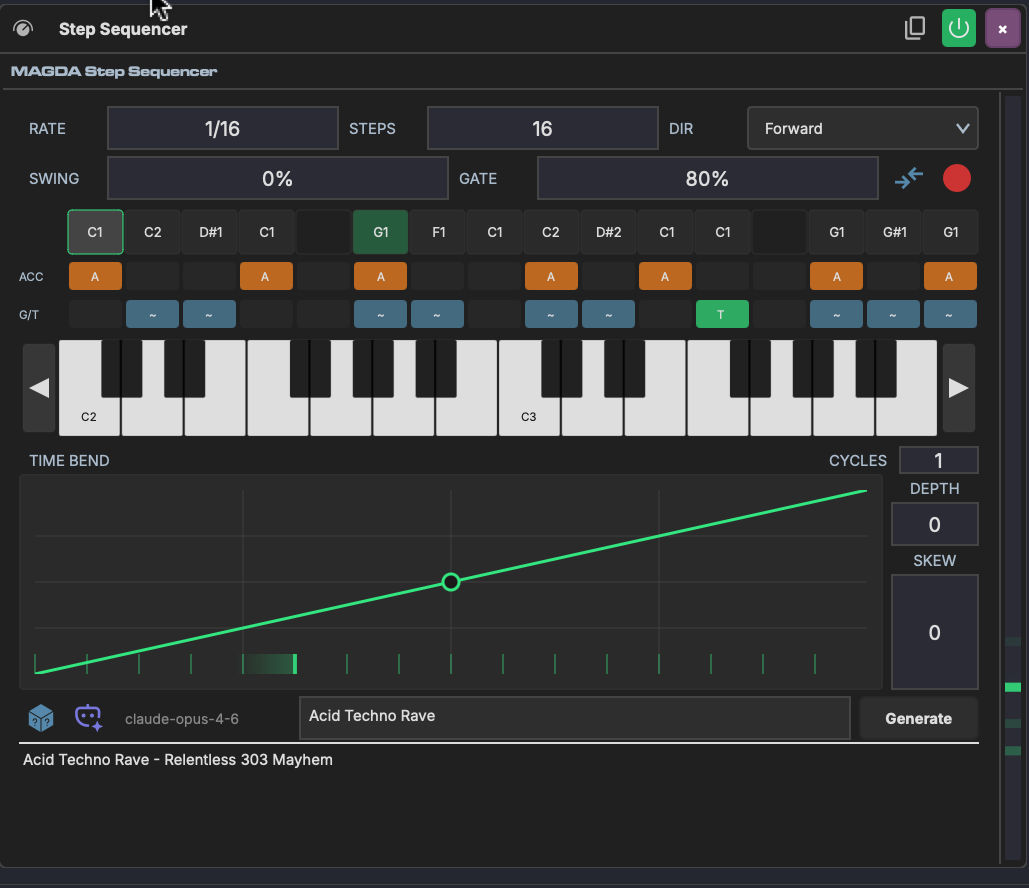
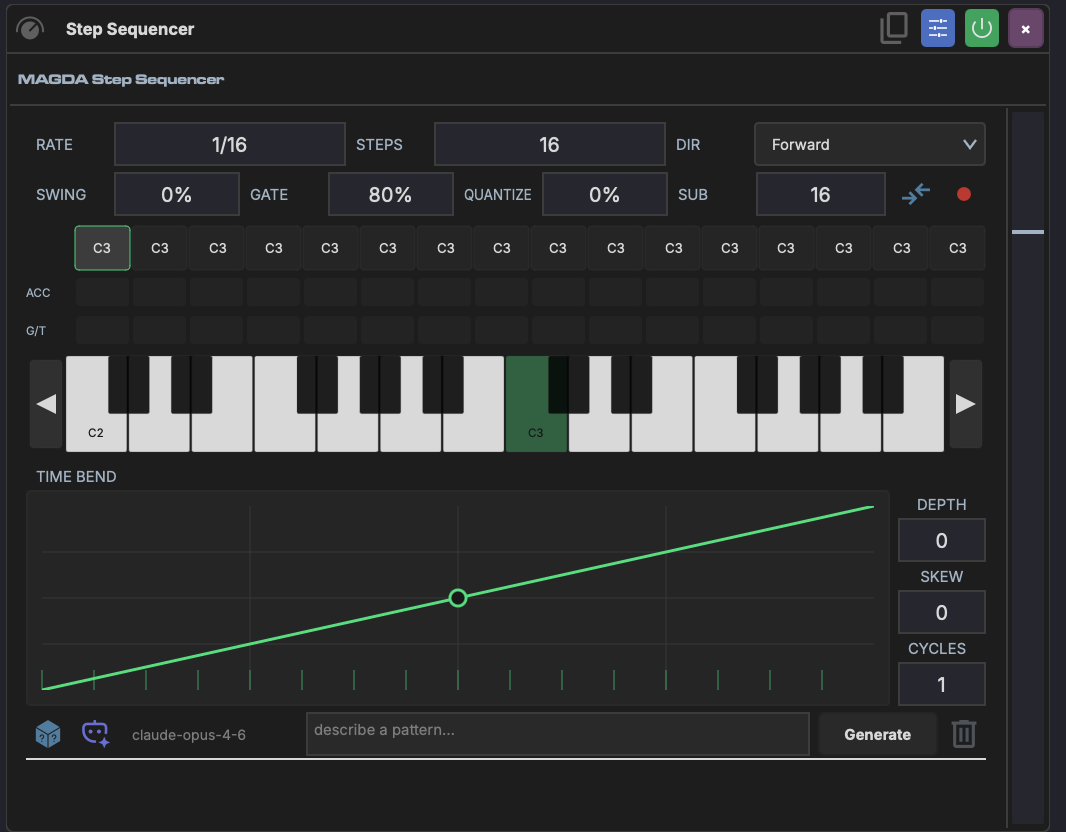
Manual: refresh device + chain screenshots for 0.7 header redesign
- track-chain, rack, arpeggiator, step-sequencer, 4osc-osc — refreshed
  to show the redesigned device-slot header (preset button + the
  reordered right-edge icons).
- 4osc-osc additionally shows the macros + mods + AI side panels
  expanded so the page doubles as a tour of what the slot can carry.
- drum-grid — new shot, page previously had no image.

diff --git a/manual/docs/devices/drum-grid.md b/manual/docs/devices/drum-grid.md
@@ -2,6 +2,8 @@
 
 The Drum Grid is MAGDA's chain-based drum machine. Each pad is a full audio chain, giving you independent processing per drum voice.
 
+![Drum Grid device with macros panel and the pad grid showing two pages of pads](../assets/images/devices/drum-grid.png)
+
 ## Overview
 
 The Drum Grid maps incoming MIDI notes to individual pads. Each pad has its own sample, FX chain, and mixer controls, making it a self-contained drum kit in a single device.
